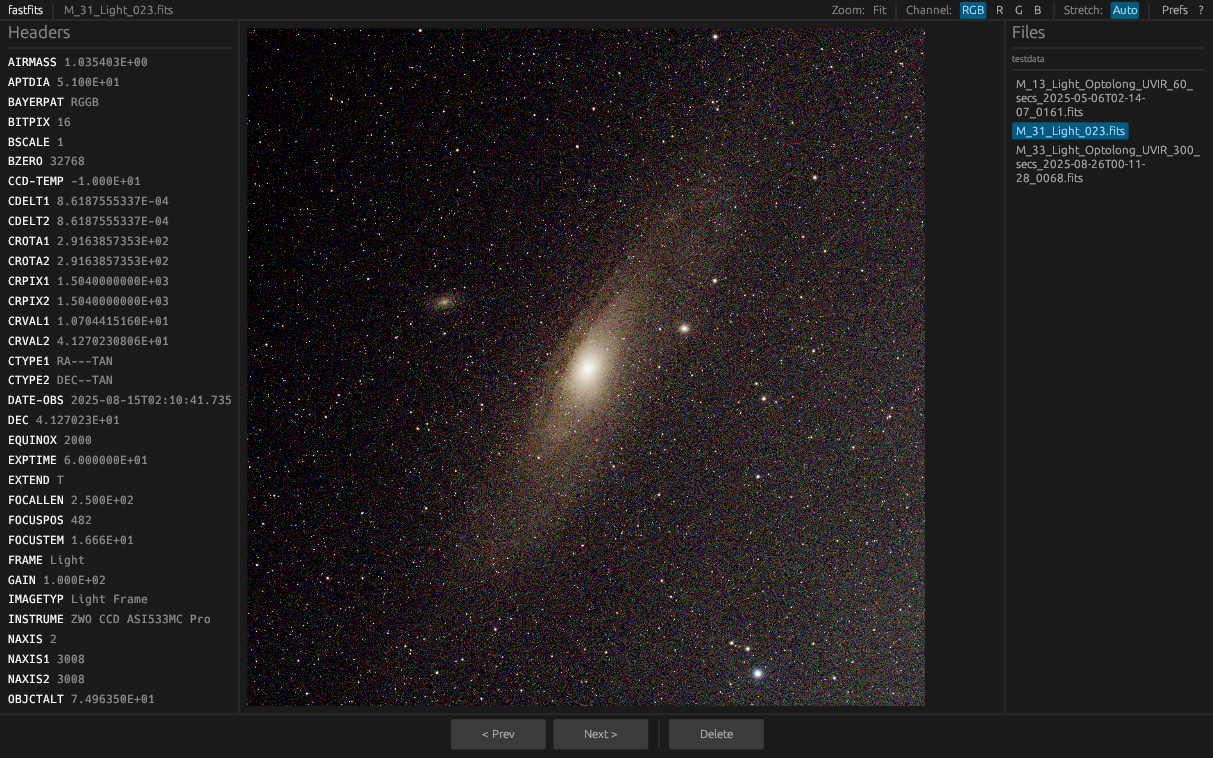
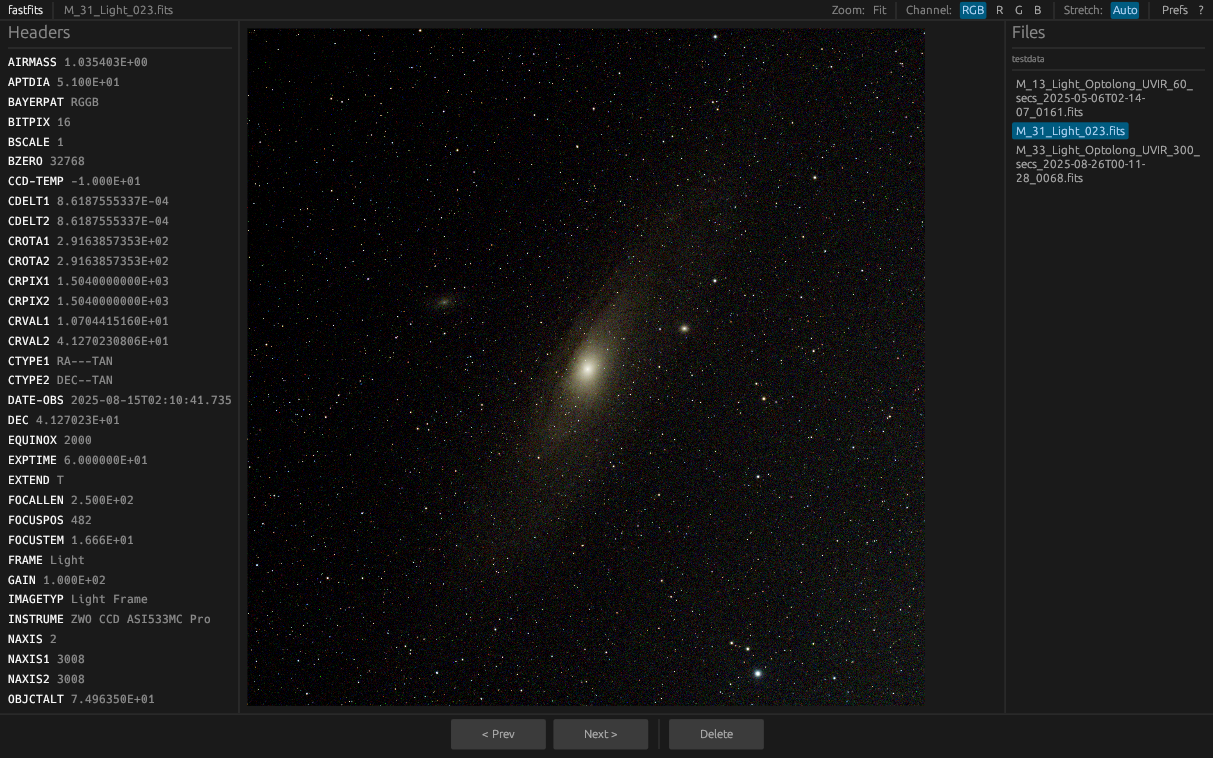
Release v0.2.1: autostretch tuning and updated screenshot

diff --git a/CHANGELOG.md b/CHANGELOG.md
@@ -2,6 +2,11 @@
 
 All notable changes to this project will be documented here.
 
+## [0.2.1] – 2026-02-14
+
+### Changed
+- **AutoStretch tuning** — midtone K reduced from 3.0 to 1.5 (mode + 1.5 σ); better balance between faint-signal visibility and noise suppression
+
 ## [0.2.0] – 2026-02-14
 
 ### Added
